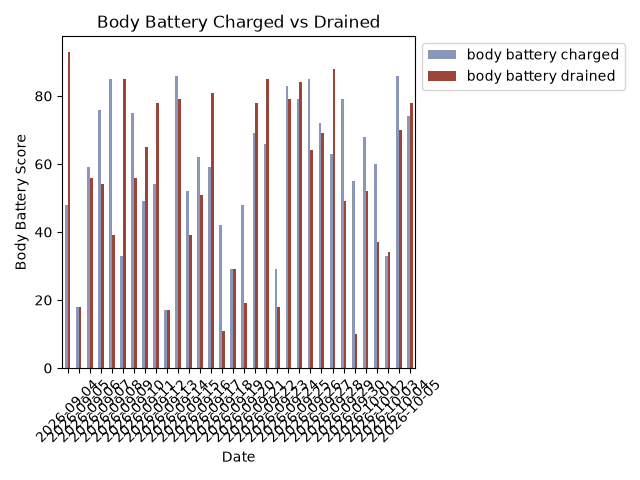
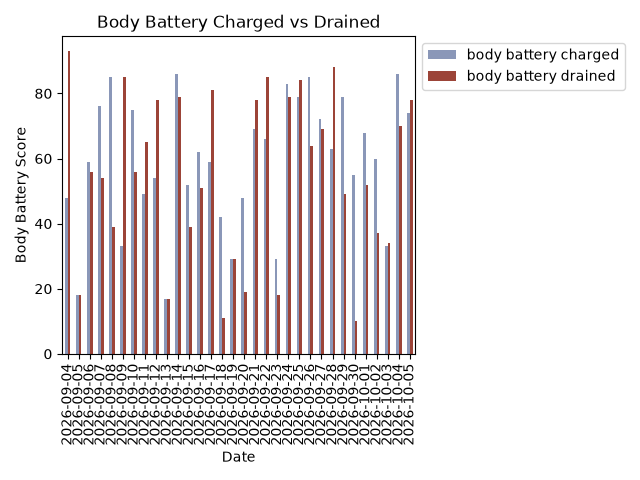
F.7.1: More updates

diff --git a/index.html b/index.html
@@ -62,7 +62,12 @@
 
 <div class="prose">
   <h2>The Problem</h2>
-  <p>Veterans and their families remain an understudied population in the United States, partly due to how small a subset of the general population they represent [1]. This gap in research and attention persists even though the veteran community shows significantly elevated rates of PTSD and related mental health struggles compared to civilians. Making the problem more urgent, the VA's most recent data estimates that approximately 17 veterans die by suicide each day, a number that, while lower than the historically cited "22 a day," remains alarmingly high [2]. This project is conducted in partnership with Elpis Alliance, a veteran-focused nonprofit that has made ending veteran suicide its central mission, built around a striking premise: that sleep, not trauma, is the root issue [1]. According to Elpis, over 80% of struggling veterans live with undiagnosed sleep disorders, and when sleep breaks down, conditions like PTSD, depression, and chronic pain often follow, sometimes culminating in suicide [1]. Rather than treating disrupted sleep as merely a symptom of trauma, Elpis argues it must be addressed first, as the foundation everything else depends on. To act on this belief, Elpis has built a tribe-based support model, pairing veterans with other veterans, and combines sleep studies, wearable technology, and trauma-focused care through programs like their Sleep Savant Program [1]. That program specifically screens, diagnoses, and supports veterans using tools including wearable tech and CPAP therapy [1]. This project is directly inspired by that same premise: that restoring and understanding sleep may be one of the most actionable ways to support veteran health. It asks whether that premise, currently driving grassroots intervention work, can also be explored and supported using data.</p>
+  <p>Veterans and their families remain an understudied population in the United States, partly due to how small a subset of the general population they represent [1]. This gap in research and attention persists even though the veteran community shows significantly elevated rates of PTSD and related mental health struggles compared to civilians. Making the problem more urgent, the VA's most recent data estimates that approximately 17 veterans die by suicide each day, a number that, while lower than the historically cited "22 a day," remains alarmingly high [2]. This project is conducted in partnership with Elpis Alliance, a veteran-focused nonprofit that has made ending veteran suicide its central mission, built around a striking premise: that sleep, not trauma, is the root issue [1]. According to Elpis, over 80% of struggling veterans live with undiagnosed sleep disorders, and when sleep breaks down, conditions like PTSD, depression, and chronic pain often follow, sometimes culminating in suicide [1]. The National Veteran Sleep Disorder Study showed that diagnosed sleep disorders in veterans rose through 2010 from roughly 3.2% to roughly 16.1% in veterans with PTSD and from roughly 0.9% to roughly 4.7% in veterans without PTSD [5]. It didn't stop in 2010; later sources show that this alarming trend is continuing to increase [6], [7]. Rather than treating disrupted sleep as merely a symptom of trauma, Elpis argues it must be addressed first, as the foundation everything else depends on. To act on this belief, Elpis has built a tribe-based support model, pairing veterans with other veterans, and combines sleep studies, wearable technology, and trauma-focused care through programs like their Sleep Savant Program [1]. That program specifically screens, diagnoses, and supports veterans using tools including wearable tech and CPAP therapy [1]. This project is directly inspired by that same premise: that restoring and understanding sleep may be one of the most actionable ways to support veteran health. It asks whether that premise, currently driving grassroots intervention work, can also be explored and supported using data.</p>
+
+  <figure class="figure">
+  <img src="images/intro/ptsd_sleep_disorders.png" alt="Stacked bar chart of diagnosed sleep disorders among veterans in VA care with and without PTSD for fiscal years 2000, 2005, and 2010, rising in both groups and higher with PTSD" style="width:100%; max-width:600px; display:block; margin:0 auto; border-radius:4px;">
+  <figcaption>This chart shows a steady rise in diagnosed sleep disorders in veterans both with and without PTSD, with each group's rate roughly doubling or more every five years. Additionally, the PTSD group was consistently about 3.5 times higher than the no PTSD group throughout. This graph was redrawn from Alexander et al. (2016), "The National Veteran Sleep Disorder Study: Descriptive Epidemiology and Secular Trends, 2000&ndash;2010," and the values are an approximation from the published figure on the age-adjusted prevalence of sleep disorders in veterans with and without a PTSD diagnosis, specifically veterans seeking care with the VA.</figcaption>
+</figure>
 
   <figure class="figure">
   <img src="images/intro/garmin-desk-square.jpeg" alt="A Garmin wearable device on a wrist, displaying sleep stage data, with a military uniform sleeve visible" style="width:100%; max-width:500px; display:block; margin:0 auto; border-radius:4px;">
@@ -71,7 +76,7 @@
 
   <p>This project analyzes everyday wearable health data, specifically Garmin-collected metrics such as sleep stages, respiration rate, and blood oxygen content, to determine whether meaningful patterns exist between these metrics and key recovery outcomes, including heart rate variability (HRV) and related recovery statistics. These particular metrics were chosen because each reflects a different signal tied to breathing, HRV and sleep quality during rest. For example, the length and proportion of each sleep stage can indicate how fragmented or restorative a night's sleep was in reality. This focus on recovery is inspired by existing research connecting disrupted sleep to broader health risk in the veteran community, and by consumer-wearable studies showing that companies like Samsung and Apple have already demonstrated that devices like these can detect meaningful physiological signals during sleep. Some of these signals include signs of sleep-disordered breathing, with reasonable accuracy [3], [4]. However, that prior work centers on general-population disorder detection rather than recovery patterns within the veteran community specifically. This project shifts from the general-population focus to the veteran and military population and by examining what everyday, already-available wearable data can reveal about recovery and sleep quality. For instance, this study aims to determine whether metrics like REM sleep duration relate meaningfully to HRV, which is already a widely recognized indicator of physical recovery and readiness. Many veterans already own or have easy access to consumer wearables like Garmin devices, making this an accessible starting point rather than one requiring specialized equipment. The ultimate purpose of this project is to benefit the veteran community directly, not simply to produce an academic finding. It aims to help veterans understand which everyday habits and metrics are most strongly linked to their own recovery, so they can make informed, actionable changes. In doing so, it hopes to raise broader awareness of the sleep-related risks veterans face, and encourage those struggling to seek help when they need it.</p>
 
-  <p>The primary dataset for this project comes from 98 individuals, either veterans or immediate family members of veterans, who each took part in a Sleep Savant Program hosted by Elpis Alliance. Their Garmin watches recorded daily physiological data, which flows into LabFront, a platform that consolidates it. Participants in the program were either provided a Garmin watch by Elpis Alliance or brought their own Garmin device. After cleaning, the dataset contains 18,728 nights recorded between February 28, 2025 and September 28, 2026. Only 250 nights, out of an original 18,978, were removed because of missing or impossible data (e.g., HRV readings of zero). Prior to obtaining this dataset, data from a single individual was used to conduct exploratory data analysis, get a general feel for trends, and help formulate the research questions. Single-person data runs the risk of being out of sync with veteran population trends, and studying it alone puts the research at risk. Even 98 individuals is not truly representative of the veteran population. These individuals were invited, or sought out the program on their own, often because of their own sleep struggles. Not everyone in the military community struggles with sleep, but understanding general trends is valuable for anyone who begins to exhibit sleep issues, which is what this project is all about.</p>
+  <p>The primary dataset for this project comes from 98 individuals, either veterans or immediate family members of veterans, who each took part in a Sleep Savant Program hosted by Elpis Alliance. Their Garmin watches recorded daily physiological data, which flows into LabFront, a platform that consolidates it. Participants in the program were either provided a Garmin watch by Elpis Alliance or brought their own Garmin device. After cleaning, the dataset contains 18,728 nights recorded between February 28, 2025 and September 28, 2026. Only 250 nights, out of an original 18,978, were removed because of missing or impossible data (e.g., HRV readings of zero). Prior to obtaining this dataset, data from a single individual was used to conduct exploratory data analysis, get a general feel for trends, and help formulate the research questions. Single-person data runs the risk of being out of sync with veteran population trends, and studying it alone puts the research at risk. Even 98 individuals is not truly representative of the veteran population. These individuals were invited, or sought out the program on their own, often because of their own sleep struggles. The group is a mix of people from within the veteran community. Some are active duty and some are retired, and others are family members of veterans. Ages span a wide range, and the group includes people with a sleep apnea diagnosis as well as people with no sleep issues at all, though individual ages and diagnoses were not shared with this project. Not everyone in the military community struggles with sleep, but understanding general trends is valuable for anyone who begins to exhibit sleep issues, which is what this project is all about.</p>
 
   <h3>References</h3>
   <ol style="font-size: 0.85em; color: #666;">
@@ -79,6 +84,9 @@
     <li id="ref2">U.S. Department of Veterans Affairs, "2025 National Veteran Suicide Prevention Annual Report, Part 1," VA, 2025. [Online]. Available: <a href="https://www.mentalhealth.va.gov/docs/data-sheets/2025/2025_national_veteran_suicide_prevention_annual_report_part_1_final.pdf" target="_blank">link</a>. [Accessed: Sep. 15, 2026].</li>
     <li id="ref3">Samsung Electronics, "Sleep Apnoea Feature Instructions for Use," Samsung Electronics, 2024. [Online]. Available: <a href="https://images.samsung.com/is/content/samsung/assets/za/apps/samsung-health-monitor/2025/IFU_SLEEP-APNEA_ZA_v1.0_2024-12_v1.2.pdf" target="_blank">link</a>. [Accessed: Sep. 15, 2026].</li>
     <li id="ref4">"Detection of sleep apnea using only inertial measurement unit signals from apple watch: a pilot-study with machine learning approach," <em>PMC</em>, 2024. [Online]. Available: <a href="https://www.ncbi.nlm.nih.gov/pmc/articles/PMC11787281/" target="_blank">link</a>. [Accessed: Sep. 15, 2026].</li>
+    <li id="ref5">M. Alexander, M. Ray, J. H&eacute;bert, S. Youngstedt, H. Zhang, S. Steck, R. Bogan, and J. Burch, "The National Veteran Sleep Disorder Study: Descriptive Epidemiology and Secular Trends, 2000&ndash;2010," <em>Sleep</em>, vol. 39, no. 7, pp. 1399&ndash;1410, 2016. doi: <a href="https://doi.org/10.5665/sleep.5972" target="_blank">10.5665/sleep.5972</a>.</li>
+    <li id="ref6">M. Jackson, B. J. Becerra, C. Marmolejo, R. M. Avina, N. Henley, and M. B. Becerra, "Prevalence and Correlates of Sleep Apnea Among US Male Veterans, 2005&ndash;2014," <em>Preventing Chronic Disease</em>, vol. 14, 2017. doi: <a href="https://doi.org/10.5888/pcd14.160365" target="_blank">10.5888/pcd14.160365</a>.</li>
+    <li id="ref7">U.S. Department of Veterans Affairs and Department of Defense, "VA/DoD Clinical Practice Guideline for the Management of Chronic Insomnia Disorder and Obstructive Sleep Apnea," Version 3.0, 2025. [Online]. Available: <a href="https://www.healthquality.va.gov/guidelines/CD/insomnia/I-OSA-CPG_2025-Guideline_final_20250915.pdf" target="_blank">link</a>.</li>
   </ol>
 </div>
 
@@ -88,17 +96,17 @@
   <div class="prose">
     <h2 style="margin-top:0;">Ten Questions</h2>
     <ol class="qlist">
-      <li>How do sleep stage proportions (deep, light, REM, awake) vary night to night, and what patterns emerge over time?</li>
-      <li>Is there a relationship between daily physical activity (step count, intensity minutes) and same-night sleep quality?</li>
-      <li>How does heart rate variability during sleep relate to next-day stress levels?</li>
-      <li>Do body battery charge and drain patterns show a consistent relationship with sleep quality the following night?</li>
-      <li>Does blood oxygen saturation during sleep show patterns consistent with disrupted breathing, and how does it relate to overall sleep quality and fragmentation?</li>
-      <li>Is there a measurable relationship between respiration rate during sleep and overall sleep score?</li>
-      <li>How stable or variable are an individual's recovery metrics over time, and how might these patterns compare across individuals in the veteran/military community as more data becomes available?</li>
-      <li>How much does an individual's recovery data change from night to night, and how might that compare to differences between individuals once more participants are added?</li>
-      <li>Do recovery patterns suggest natural groupings within an individual's own N-of-1 data over time and could this be similarly propogated across multiple individuals as more participants are added?</li>
-      <li>To what extent do device-measured recovery metrics align with self-reported sleep quality and stress levels?</li>
-    </ol>
+    <li>How do sleep stage proportions (deep, light, REM, awake) vary night to night, and what patterns emerge over time?</li>
+    <li>Is there a relationship between daily physical activity (step count, intensity minutes) and same-night sleep quality?</li>
+    <li>How does heart rate variability during sleep relate to next-day stress levels?</li>
+    <li>Do body battery charge and drain patterns show a consistent relationship with sleep quality the following night?</li>
+    <li>Does blood oxygen saturation during sleep show patterns consistent with disrupted breathing, and how does it relate to overall sleep quality and fragmentation?</li>
+    <li>Is there a measurable relationship between respiration rate during sleep and overall sleep score?</li>
+    <li>Does the data group better into types of nights or types of people?</li>
+    <li>Which physiological metrics account for most of the differences across the data?</li>
+    <li>Do daily activity levels relate to recovery metrics such as heart rate variability and resting heart rate?</li>
+    <li>Among participants with blood oxygen data, do blood oxygen patterns differ between the groups of participants?</li>
+  </ol>
   </div>
 </div>
 

diff --git a/dataprep.html b/dataprep.html
@@ -242,7 +242,7 @@
       <div class="cohort-col"><p class="col-label">Cohort (98 participants)</p>
 <figure class="figure">
   <img src="images/dataprep/cohort_sleep_score_distribution.png" alt="Histogram of overall sleep score across all 98 participants" style="width:100%; display:block; border-radius:4px;">
-  <figcaption class="todo">TODO: write caption</figcaption>
+  <figcaption>The cohort sleep score distribution has a very similar shape to that of the N-of-1 data. With a median score of about 70, a large number of lower sleep score nights pull the average down and skew the data to the left.</figcaption>
 </figure>
       </div>
     </div>
@@ -256,7 +256,7 @@
       <div class="cohort-col"><p class="col-label">Cohort (98 participants)</p>
 <figure class="figure">
   <img src="images/dataprep/cohort_recovery_metrics_boxplots.png" alt="Boxplots of overall sleep score, average daily stress, deep sleep percent, and REM sleep percent across all 98 participants" style="width:100%; display:block; border-radius:4px;">
-  <figcaption class="todo">TODO: write caption</figcaption>
+  <figcaption>Mean REM sleep and deep sleep percentages hover between 15 and 20%, similar to the N-of-1 data. However, the N-of-1 data had a higher overall sleep score (a median of about 80, compared with about 70 for the cohort). The cohort's average daily stress is just under 40.</figcaption>
 </figure>
       </div>
     </div>
@@ -270,7 +270,7 @@
       <div class="cohort-col"><p class="col-label">Cohort (98 participants)</p>
 <figure class="figure">
   <img src="images/dataprep/cohort_correlation_heatmap.png" alt="Correlation heatmap of twelve recovery and activity metrics across all 98 participants" style="width:100%; display:block; border-radius:4px;">
-  <figcaption class="todo">TODO: write caption</figcaption>
+  <figcaption>The most interesting correlations in this heat map are REM sleep and overall sleep score, which has a correlation almost double that of deep sleep and overall sleep score. Additionally, average breaths per minute and overnight HRV show an interesting trend that as breathing slows, HRV increases. These relationships are patterns discovered by analysis across all nights from all participants and only show an association, not causation.</figcaption>
 </figure>
       </div>
     </div>
@@ -284,7 +284,7 @@
       <div class="cohort-col"><p class="col-label">Cohort (98 participants)</p>
 <figure class="figure">
   <img src="images/dataprep/cohort_hrv_vs_next_day_stress_scatter.png" alt="Scatter plot of overnight HRV versus next-day average stress for all 98 participants" style="width:100%; display:block; border-radius:4px;">
-  <figcaption class="todo">TODO: write caption</figcaption>
+  <figcaption>The HRV versus next-day stress plot is particularly interesting since there is a moderate negative trend in the data, such that as overnight heart rate variability increases, next-day stress decreases on average. This is however just an association at this point and the plot cannot show whether overnight heart rate variability affects next-day stress, since stress on the day before the night shows a similar relationship with HRV.</figcaption>
 </figure>
       </div>
     </div>
@@ -298,7 +298,7 @@
       <div class="cohort-col"><p class="col-label">Cohort (98 participants)</p>
 <figure class="figure">
   <img src="images/dataprep/cohort_total_calories_vs_hrv_scatter.png" alt="Scatter plot of next-day total calories versus overnight HRV for all 98 participants" style="width:100%; display:block; border-radius:4px;">
-  <figcaption class="todo">TODO: write caption</figcaption>
+  <figcaption>Similar to the stress versus HRV plot, this plot shows a weak to moderate decrease in overnight HRV as more calories are burned. This is however just an association at this point and the plot cannot show whether calories burned affect overnight HRV, since the calories shown are from the day after each night.</figcaption>
 </figure>
       </div>
     </div>
@@ -312,7 +312,7 @@
       <div class="cohort-col"><p class="col-label">Cohort (98 participants)</p>
 <figure class="figure">
   <img src="images/dataprep/cohort_total_steps_vs_next_night_sleep_score_scatter.png" alt="Scatter plot of total steps versus next night sleep score for all 98 participants" style="width:100%; display:block; border-radius:4px;">
-  <figcaption class="todo">TODO: write caption</figcaption>
+  <figcaption>There doesn't really seem to be any trend in the data. The correlation is close to zero (about -0.04), and the plot cannot show that steps affect sleep score either way.</figcaption>
 </figure>
       </div>
     </div>
@@ -326,7 +326,7 @@
       <div class="cohort-col"><p class="col-label">Cohort (98 participants)</p>
 <figure class="figure">
   <img src="images/dataprep/cohort_average_respiration_rate_sleep_vs_sleep_score.png" alt="Scatter plot of average sleep respiration rate versus sleep score for all 98 participants" style="width:100%; display:block; border-radius:4px;">
-  <figcaption class="todo">TODO: write caption</figcaption>
+  <figcaption>There is a moderate negative trend between respiration rates overnight and sleep score. As respiration rates decrease, sleep scores tend to improve and vice versa. This is however just an association at this point and the plot cannot show whether respiration rates overnight affect sleep score.</figcaption>
 </figure>
       </div>
     </div>

diff --git a/clustering.html b/clustering.html
@@ -127,6 +127,7 @@
       <figcaption>Sample of the standardized data used for clustering (first seven of the 18 features). The numbers in the left column are row positions.</figcaption>
     </figure>
     <div class="linkrow">
+      <a href="data/raw/cohort_joined.csv">Raw (joined) cohort data — link</a>
       <a href="data/clean/cohort_cleaned.csv">Cleaned cohort data — link</a>
       <a href="data/clean/clustering/scaled_data.csv">Standardized clustering data — link</a>
     </div>

diff --git a/pca.html b/pca.html
@@ -124,6 +124,7 @@
       <figcaption>Sample of the standardized data used for PCA (first 11 of the 22 columns).</figcaption>
     </figure>
     <div class="linkrow">
+      <a href="data/raw/cohort_joined.csv">Raw (joined) cohort data — link</a>
       <a href="data/clean/cohort_cleaned.csv">Cleaned cohort data — link</a>
       <a href="data/clean/pca/pca_scaled_data.csv">Standardized PCA data — link</a>
     </div>

diff --git a/scripts/visualizations.py b/scripts/visualizations.py
@@ -78,7 +78,7 @@ plt.title("Body Battery Charged vs Drained")
 plt.ylabel("Body Battery Score")
 plt.xlabel("Date")
 plt.legend(loc="upper left", bbox_to_anchor=(1, 1))
-plt.xticks(rotation = 45)
+plt.xticks()
 plt.tight_layout()
 plt.savefig("../images/dataprep/body_battery_charged_vs_drained_bar.png")
 plt.close()
